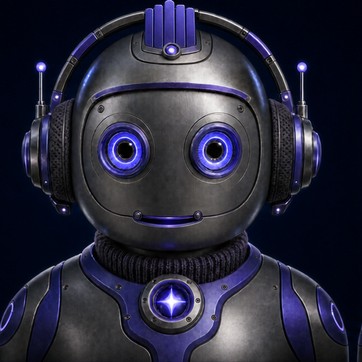
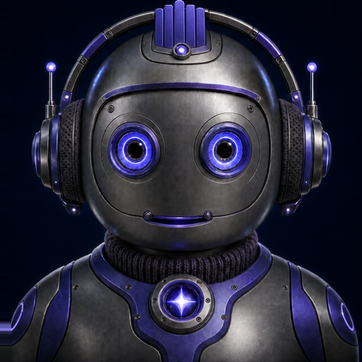
Pulsar re-centred in his square, and a gate so geometry can't drift again
Justin: "Pulsar is not centred in his square." He was right, and only he was.

MEASURED, three independent ways on the 362px canvas — head bilateral-symmetry
axis, head-bbox centroid, and left/right silhouette gap. Pulsar's head sat
10.4px / 10.0px / 9.5px LEFT of centre (~2.9% of the width), which reads in the
squircle as a fat gap on his right. Every other drone measured -1.0% to +0.4%.
Nebula's symmetry metric reads -21px but that is her swept quiff and single
antenna ball, not framing — verified centred by eye.

NOT the layout, and NOT the artwork. Every PortraitView `.offset` is positional
(orbit slot, bob drift) applied outside the portrait square; a square source
into a square frame under .aspectRatio(.fill) is an identity map, so the layout
cannot shift content within the square — and a layout bug would have moved all
nine identically anyway. The masters are all centred too, Pulsar's included
(+0.8%). The miss entered in the sprite-cell crop that derives the 362px
frames, and only for his set.

FIX: all six Pulsar frames translated +10px right as a pure integer pixel copy,
column 0 replicated into the vacated strip. No resampling, so no softening; the
strip is background (13 rows touch the left edge, all outside the squircle's
clipped corner). Pulsar now measures -0.5px (-0.14%), best of the nine, and
phase correlation confirms every frame is still registered (0,0) to its mouth-0.

VERIFIED IN THE RENDER, not just the file: built the app, ran it, screenshotted
[…]

diff --git a/design/drones/PROVENANCE.md b/design/drones/PROVENANCE.md
@@ -33,6 +33,32 @@ cells) from the approved master, cropped, then registered with OpenCV
 | meridian | `design/drones/meridian.png` | `meridian-mouth-0..4`, `meridian-blink` |
 | pulsar | `assets/readme/pulsar.png` | `pulsar-mouth-0..4`, `pulsar-blink` |
 
+### Rev 9.1 — Pulsar re-centred (2026-08-04)
+
+Pulsar's frame set shipped with his head **10.4px left** of the 362px canvas
+centre (2.9% of the width), which reads in the squircle as a fat gap on his
+right. Measured three ways — head bilateral-symmetry axis (−10.4px), head-bbox
+centroid (−10.0px), and left/right silhouette gap (16px vs 35px, −9.5px).
+
+**The masters were not at fault.** Every master measures within ±0.6% of centre,
+Pulsar's `assets/readme/pulsar.png` included (+0.8%). The miss entered in the
+sprite-cell crop that derives the 362px frames, and only for Pulsar — the other
+eight frame sets measure −1.0% to +0.4%. Nebula's symmetry metric reads −21px,
+but that is intrinsic design asymmetry (swept quiff, single antenna ball); a
+visual check confirms she is centred.
+
+**Correction:** all six Pulsar frames translated **+10px right** as a pure
+integer pixel copy, with column 0 replicated into the vacated 10px strip. No
+resampling, so no softening; the strip is background (only 13 rows have any
+subject at the left edge, and those sit outside the squircle's clipped corner).
+Result: Pulsar now measures −0.5px (−0.14%), the best-centred of the nine.
+Inter-frame registration is unchanged — phase correlation of every frame against
+its `mouth-0` still returns (0,0) for all nine sets.
+
+Regression cover: `scripts/cast-check.sh` **check 11** now gates both portrait
+centring (per-drone ratified baseline, ±3px) and lip-sync frame registration.
+Both arms are negative-tested.
+
 Frames live in `macos/Pulsar/Sources/Resources/`. Pre-Rev-8 masters are retained at `design/drones/pre-rev8/` and the original
 pre-machined cast at `design/drones/before/`. Meridian's Rev 9 master was
 generated as four FULL re-renders rather than masked edits, after compounding
